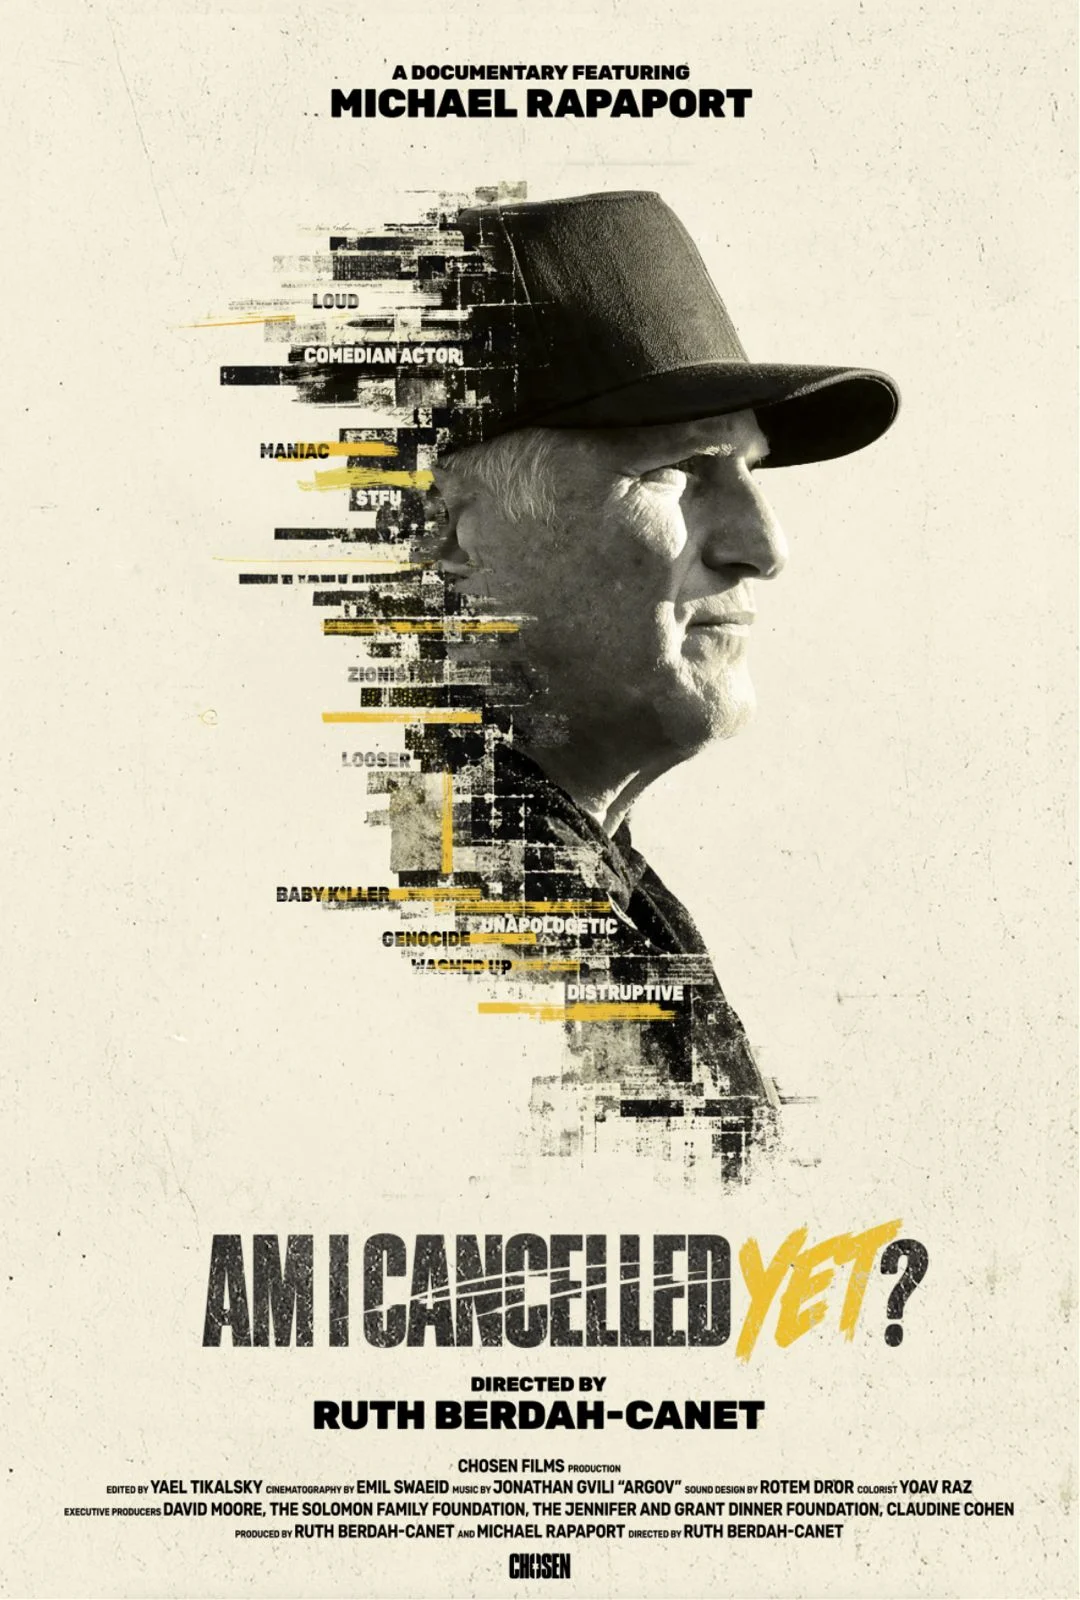
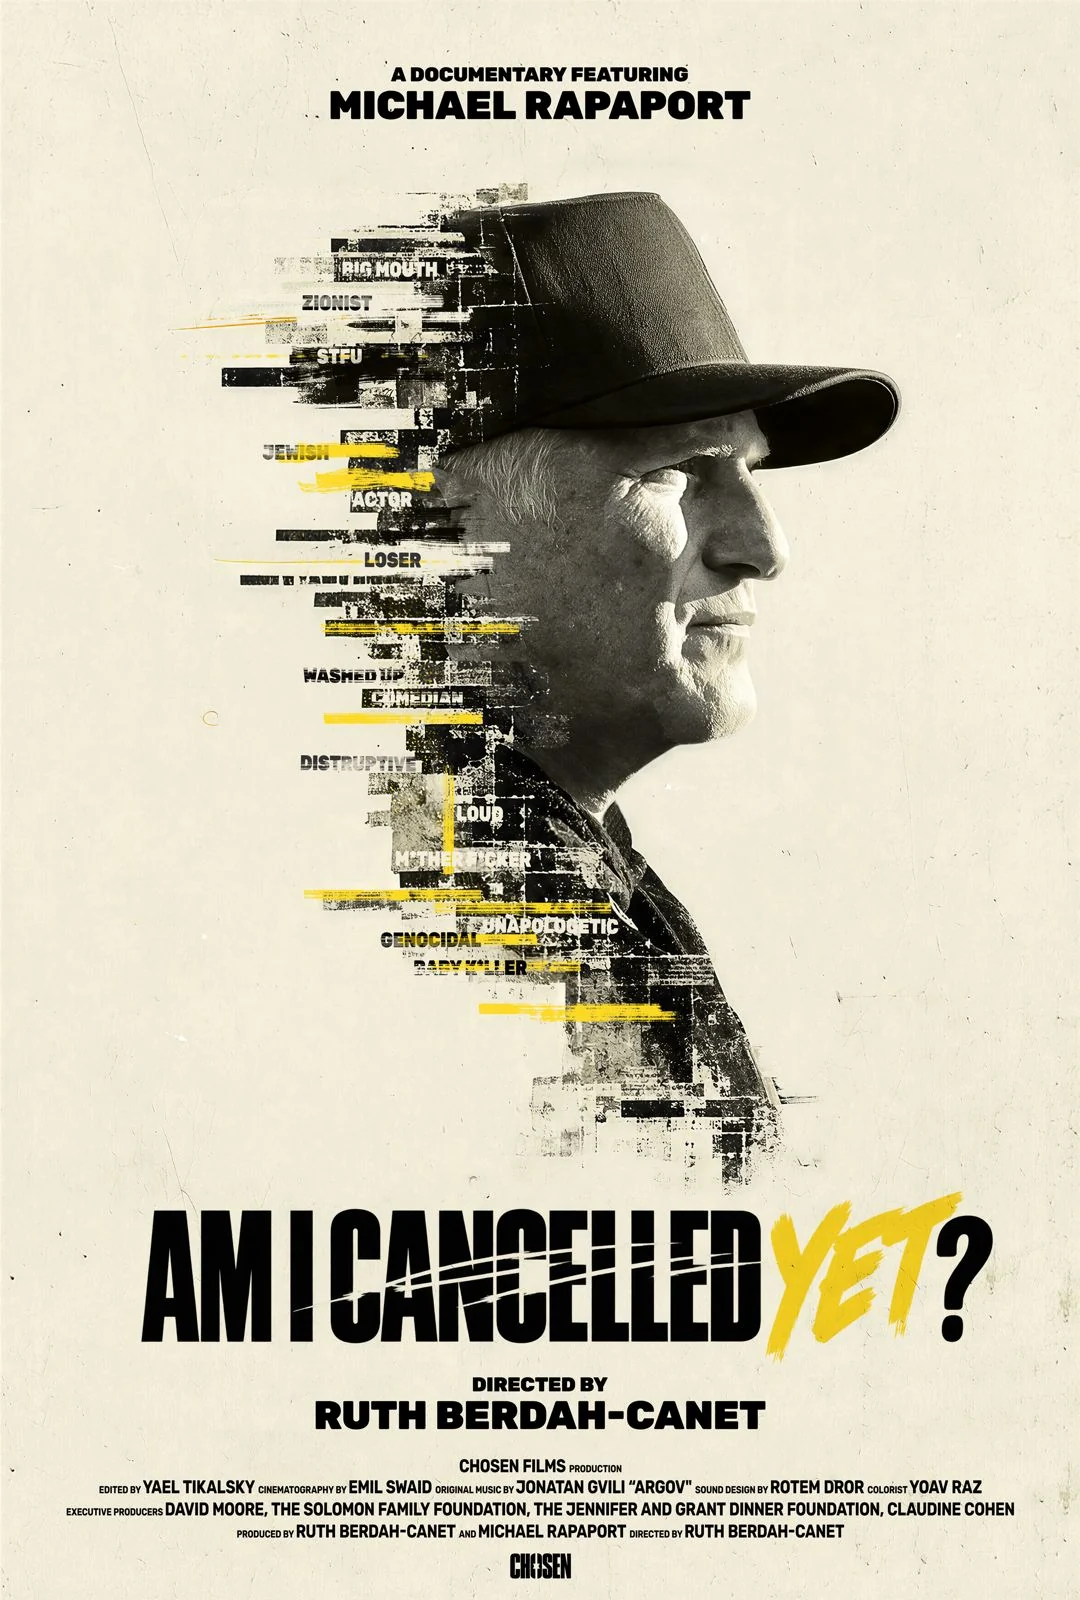
Update poster
Claude-Session: https://claude.ai/code/session_01RM9Env8CFnPpxUfbv7H1jz

diff --git a/index.html b/index.html
@@ -455,7 +455,7 @@ h1,h2,h3,p{margin:0}
   <section class="section wrap" id="film" aria-labelledby="film-title">
     <div class="film">
       <div class="film__poster">
-        <img src="img/poster.webp?v=2" alt="Am I Cancelled Yet? poster: Michael Rapaport in profile, his silhouette breaking apart into glitched fragments of labels like Loud, Maniac and Unapologetic" width="1080" height="1600" loading="lazy">
+        <img src="img/poster.webp?v=3" alt="Am I Cancelled Yet? poster: Michael Rapaport in profile, his silhouette breaking apart into glitched fragments of labels like Big Mouth, Loud and Unapologetic" width="1080" height="1600" loading="lazy">
       </div>
       <div class="film__text">
         <div>
